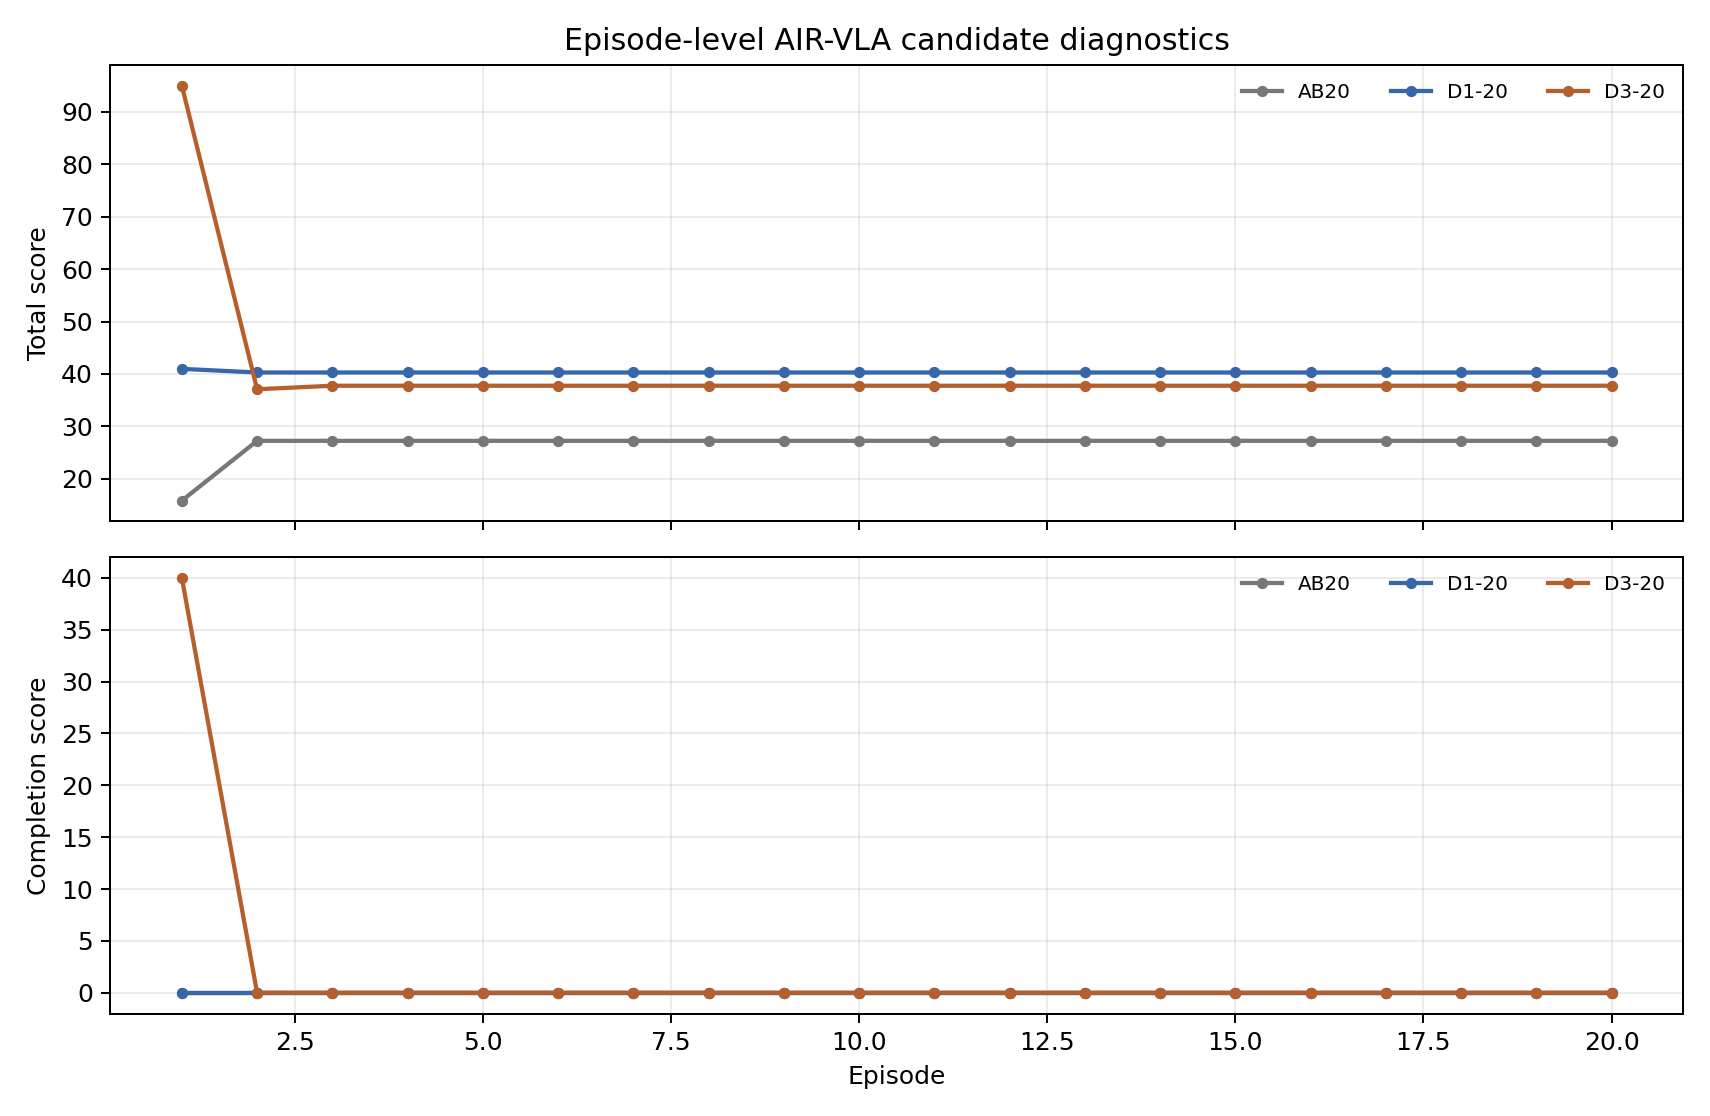
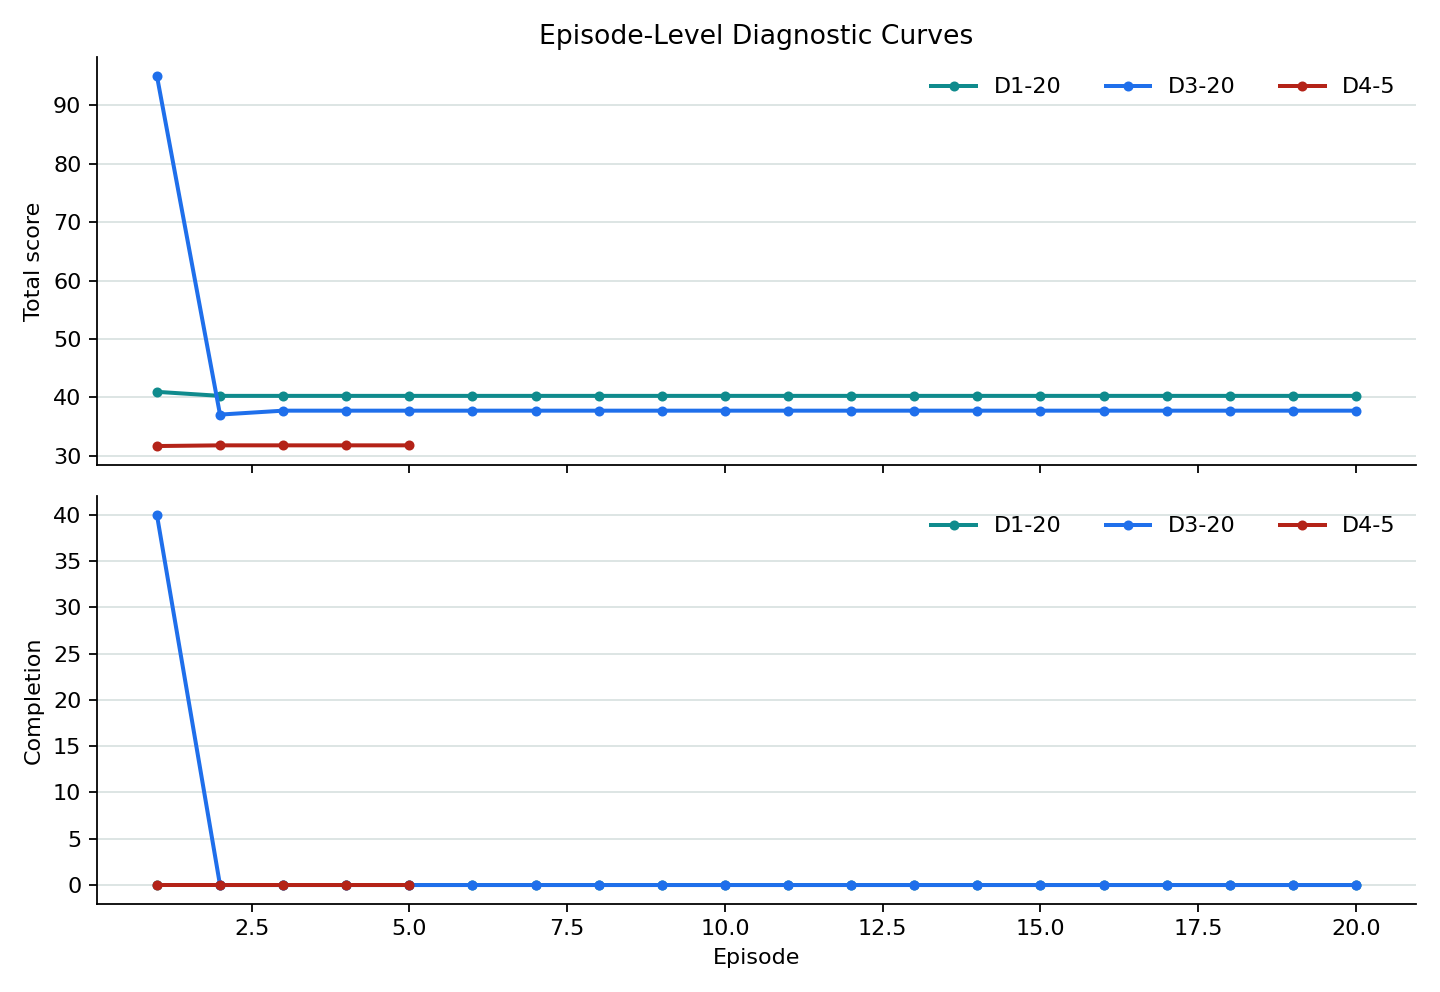
Add D4 AIR-VLA diagnostic to project page

Changed region(s): [[0.0, 0.0312, 1.0, 0.5312], [0.0, 0.5, 0.9688, 0.9688], [0.3125, 0.0, 1.0, 0.0938]]

diff --git a/index.html b/index.html
@@ -47,7 +47,7 @@
       <section id="abstract" class="section narrow">
         <h2>Abstract</h2>
         <p>
-          This page records the current Work4 server evidence for AIR-VLA reproduction and Execution-Feedback AIR-VLA design. The HDF5 audit, BC smoke, feedback smoke, evaluator diagnostics, and D1 to D3 candidate runs are all linked to local artifacts.
+          This page records the current Work4 server evidence for AIR-VLA reproduction and Execution-Feedback AIR-VLA design. The HDF5 audit, BC smoke, feedback smoke, evaluator diagnostics, and D1 to D4 candidate runs are all linked to local artifacts.
         </p>
         <p>
           The current result is an engineering diagnostic rather than a performance claim. Official training code, policy inference assets, checkpoints, broad data coverage, and a stable full evaluator are still missing.
@@ -97,7 +97,7 @@
       <section id="candidate-process" class="section">
         <div class="section-head">
           <h2>State-Gated Candidate Iterations</h2>
-          <p>Small-scale AIR-VLA diagnostics show that action timing and UAV-target distance must be coupled before placement repair can be meaningful.</p>
+          <p>Small-scale AIR-VLA diagnostics show that action timing and UAV-target distance must be coupled before placement repair can be meaningful. D4 rejects an aggressive container-transfer target.</p>
         </div>
         <div class="iteration-spotlight">
           <figure class="spotlight-media">
@@ -125,6 +125,10 @@
             <div class="equation-row">
               <span>D4 Target</span>
               <code>J = S_uav + S_arm + S_safe + S_complete with post-close transfer T(t - tau_g)</code>
+            </div>
+            <div class="equation-row">
+              <span>D4 Result</span>
+              <code>J_D4 = 31.786 &lt; J_D3-5 = 49.058, so D5 sets T to lift only</code>
             </div>
           </div>
         </div>

diff --git a/app.js b/app.js
@@ -89,7 +89,7 @@ function metricTile(label, value) {
 }
 
 function renderCandidateIterations(data) {
-  const promoted = new Set(["AB", "D1-20", "D2-5", "D3-20"]);
+  const promoted = new Set(["AB", "D1-20", "D2-5", "D3-20", "D4-5"]);
   const rows = data.iterations.filter((item) => promoted.has(item.id) || item.id === "AB");
   const cards = rows.map((item) => {
     const metrics = item.metrics || {};

diff --git a/tools/build_candidate_media.py b/tools/build_candidate_media.py
@@ -32,6 +32,11 @@ CLIPS = [
         "video": "d3_state_gate_speed004_episode_1_loop4s.mp4",
         "gif": "d3_state_gate_speed004_episode_1_loop4s.gif",
     },
+    {
+        "source": "d4_gate_transfer_episode_2.mp4",
+        "video": "d4_gate_transfer_episode_2_loop4s.mp4",
+        "gif": "d4_gate_transfer_episode_2_loop4s.gif",
+    },
 ]
 
 